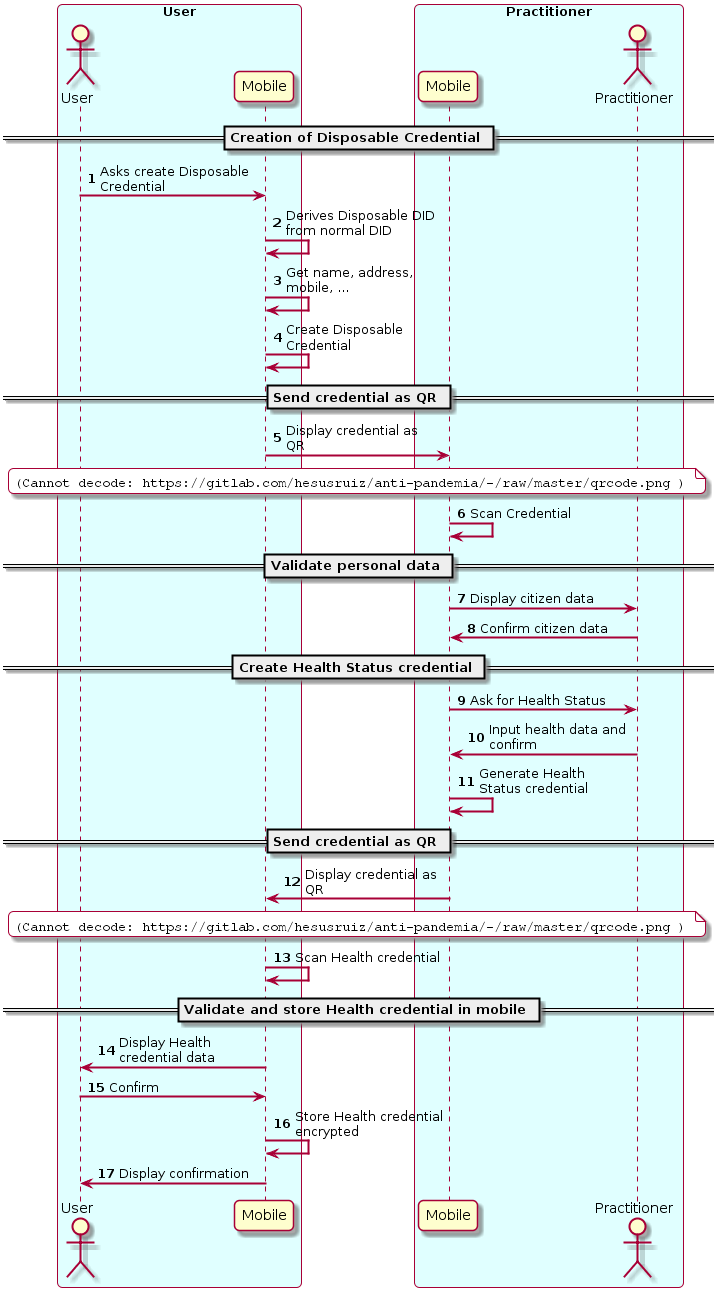
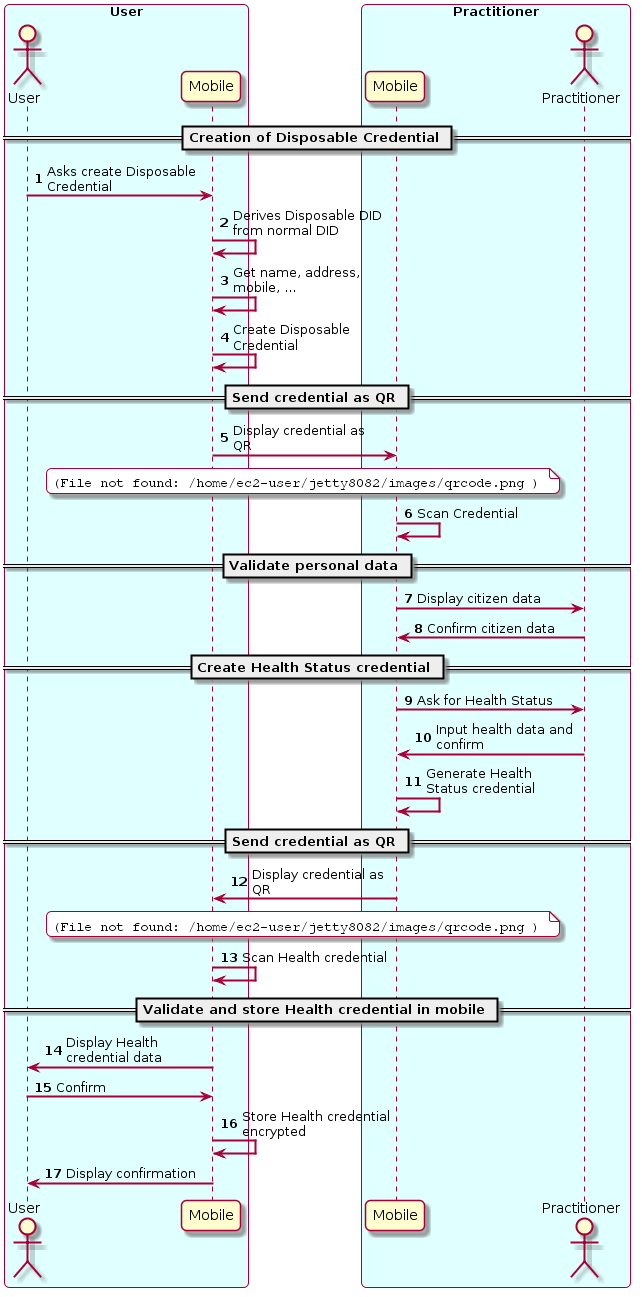
Change theme

diff --git a/docs/index.html b/docs/index.html
@@ -551,6 +551,24 @@
                 
                 
                 <h1 id="immunisation-and-collective-knowledge-in-pandemia-management">Immunisation and collective knowledge in pandemia management<a class="headerlink" href="#immunisation-and-collective-knowledge-in-pandemia-management" title="Permanent link">&para;</a></h1>
+<div class="toc">
+<ul>
+<li><a href="#immunisation-and-collective-knowledge-in-pandemia-management">Immunisation and collective knowledge in pandemia management</a><ul>
+<li><a href="#introduction">Introduction</a></li>
+<li><a href="#functionalities">Functionalities</a></li>
+<li><a href="#main-system-characteristics">Main system characteristics</a></li>
+<li><a href="#high-level-overview">High level overview</a><ul>
+<li><a href="#practitioners-can-issue-credentials-to-citizens">Practitioners can issue credentials to Citizens</a></li>
+<li><a href="#citizens-can-present-their-credentials-to-officials">Citizens can present their credentials to officials</a></li>
+<li><a href="#citizens-can-self-attest-their-health-status-using-questionnaires">Citizens can self-attest their health status using questionnaires</a></li>
+<li><a href="#citizens-can-provide-consent-to-use-personal-data">Citizens can provide consent to use personal data</a></li>
+<li><a href="#color-coding-in-a-safe-and-privacy-preserving-way">Color coding in a safe and privacy-preserving way</a></li>
+</ul>
+</li>
+</ul>
+</li>
+</ul>
+</div>
 <h2 id="introduction">Introduction<a class="headerlink" href="#introduction" title="Permanent link">&para;</a></h2>
 <p>To help in times of virus crisis (eg. corona) and for social recovery after the initial crisis, this application uses <a href="https://en.wikipedia.org/wiki/Verifiable_credentials">Verifiable Credentials</a> (VCs) to associate immunisation &amp; health information to citizens.
 We use VCs to <strong>increase privacy</strong> and data control by the user, compared to the equivalent centralized applications developed in other regions like China or Korea. In addition, VCs improve the <strong>interoperability</strong> and usage of this data <strong>across borders in the European Union</strong> (and with other regions with proper agreements), <strong>without requiring a centralized repository</strong>.</p>

diff --git a/docs_src/index.md b/docs_src/index.md
@@ -1,3 +1,5 @@
+toc:
+
 # Immunisation and collective knowledge in pandemia management
 
 ## Introduction
@@ -5,7 +7,7 @@
 To help in times of virus crisis (eg. corona) and for social recovery after the initial crisis, this application uses [Verifiable Credentials](https://en.wikipedia.org/wiki/Verifiable_credentials) (VCs) to associate immunisation & health information to citizens.
 We use VCs to **increase privacy** and data control by the user, compared to the equivalent centralized applications developed in other regions like China or Korea. In addition, VCs improve the **interoperability** and usage of this data **across borders in the European Union** (and with other regions with proper agreements), **without requiring a centralized repository**.
 
-The application uses [EBSI](https://ec.europa.eu/cefdigital/wiki/display/CEFDIGITAL/EBSI) as a public decentralized registry to check the validity of the public identities of practitioners and other professionals and institutions that may be involved. In addition, the application can be configured to verify public identities against any other publicly accessible blockchain repository with compatible query interface (or even centralized systems, with the condition that they be trusted).
+The application uses [EBSI](https://ec.europa.eu/cefdigital/wiki/display/CEFDIGITAL/EBSI) as a public decentralized registry to check the validity of the public identities of practitioners and other professionals and institutions that may be involved. In addition, the application can be configured to verify public identities against any other publicly accessible blockchain repository (like Alastria Red T) with compatible query interface (or even centralized systems, with the condition that they be trusted).
 
 Most interactions among participants happen **off-chain** with high levels of privacy, scalability and flexibility. However, the citizen can provide **explicit consent** in the form of VCs to enable the application to send some specific information to the health authorities of each country.
 
@@ -15,46 +17,6 @@ In addition, the application can:
 - Use **color coded schemas for social interactions** to provide information to improve protection and prevention of people during an epidemic or pandemic situation. Color coding can be more sophisticated than current schemes, thanks to the use of VCs.
 - Use exactly the same mechanism to deliver to the citizens other useful credentials during the post-crisis recovery of the society, for example **temporary permits** for going to work, visiting family or travelling, both inside a country and across borders.
 
-## Functionalities
-
-The application supports several functionalities:
-
-1. Easy onboarding of citizens.
-
-2. Health practitioners will issue to citizens different types of health status situation reports as special Verifiable Credentials. The credentials issued by practitioners will be based on lab tests, vaccination, diagnostics, etc.
-
-3. Citizens can self-attest their health status using questionnaires, in a similar way that is done now with some apps developed in some countries for coronavirus crisis management. These credentials are of a different nature, being self-issued and not fully verified by an authority, but they have proven to be of immense value in times of crisis. A simple verification with the mobile number, even if not legally binding, can be very useful in these situations.
-
-4. Citizens can provide consent to use personal data embedded in the credentials, including the GPS coordinates in their phones for different purposes, which can range from full tracking to explicit geo-tagging of some VC when the citizen considers it adecuate (for example for self-attestation of compliance with quarantine). Some messages can be automatically collected in a central server (there may be one per country depending on the citizen), and the aggregated information from many citizens can be used and analyzed.
-
-5. The information represented by these Verifiable Credentials can be used in a safe and privacy-preserving way for things like "color coding" citizens for their health condition regarding the infection status and places visited.
- 
-These health condition credentials are **temporary** and should be destroyed when a new (updated) credential provides a more recent view on the situation. The citizen should be in control of the set of credentials that were issued to her, including the possibility to delete them. It is even reasonable to have the credentials automatically destroyed after the crisis has passed. To stress this short-lived characteristic, we call them **Disposable Verifiable Credentials**.
- 
-The health condition credentials are tied to a digital identity of the issuing party. In case of practitioners this should be tied to their professional credentials. All data exchanges are accompanied by a GDPR consent encoded as Verifiable Claim so that legitimate use of the data can be proved.
- 
-Health conditions can change a lot with time, so these health condition credentials will be regularly updated and timestamping will determine which is most recent. For each latest health condition credential, a QR can be generated by the citizen using a smartphone and this code can be read by another smartphone, either a practitioner, an official or other citizen. **No physical contacts or pre-established relationship** among parties are needed. These QRs are destroyed (as they are only digital, this means that they will not resolve any information) when a new health condition credential is created.
- 
-## Main system characteristics
-
-- Integrated with EBSI (European Blockchain Services Infrastructure) and reusing the ESSIF components, where EBSI will have a global public registry of official health institutions (similar to the registry for Universities). The EBSI registry should be accessible externally by anybody in read mode, to verify the public identities of the health institutions. However, the application can be configured to work using any other blockchain network with compatible interfaces. Additionally, the application can reuse many of the components already available for the Diplomas use case in EBSI.
-
-- The practitioners have public identities (as Verifiable Credentials), issued by the corresponding entities (the process may depend on the specific country), and they can be verified by anybody, when chacking the validity of a health status credential of a citizen.
-
-- In an initial phase of the application, it is not strictly necessary that the citizens have an official identity issued by the government (ESSIF). For crisis management it could be enough that they self-issue a DID which is then used in the credential issued by the practitioner when performing the test or vaccination procedure to the citizen.
-
-- Communication is in general P2P (app-2-app), achieving very high levels of privacy. It includes the ability to use a simple QR based system for sending/receiving VCs to enable simple phone-to-phone verification of a credential without previous relatinship among the participants. For example, when a citizen is walking in the street and an official has to verify that the citizen has the corresponding permit. The citizen can just display the QR representing the VC and the official can scan the QR and verify it.
-
-- Credentials are stored in-app except practitioner credentials representing their identities, which are stored in a public registry. Stale/old data is deleted.
-
-- An interactive and patient focused e-consent system will be included in order to ensure the highest consent rate possible, integrated with the health status credentials.
-
-- Citizen data is only read by practitioners, not stored (equivalent of showing a piece of paper, but not copying it).
-
-- The important exception being the case for government data analysis, for crisis management purposes.
-
-> NOTE: This project is heavily inspired by the [healthcrisis](https://github.com/disposableidentities/healthcrisis) initiative, but it has been adapted to leverage ESSIF and in general the existing EBSI infrastructure and components.
-
 ## High level overview
 
 ### Practitioners can issue credentials to Citizens
@@ -63,13 +25,18 @@ Health conditions can change a lot with time, so these health condition credenti
 
 Health practitioners will issue to citizens different types of health status situation reports as special Verifiable Credentials. The credentials issued by practitioners will be based on lab tests, vaccination, diagnostics, etc.
 
-The practitioners have public identities (as Verifiable Credentials), issued by the corresponding entities (the process may depend on the specific country), and they can be verified by anybody, when checking the validity of a health status credential of a citizen.
+The health condition credentials are tied to the digital identity of the issuing party. In case of practitioners this should be tied to their professional credentials, which are public and issued by the corresponding official entities (the process may depend on the specific country). All data exchanges are accompanied by a GDPR consent encoded as Verifiable Claim so that legitimate use of the data can be proved.
 
 The system allows practitioners to issue credentials to citizens directly, just using their mobile phones while on the field, for example.
 
 ### Citizens can present their credentials to officials
 
 ![](images/index/official.png)
+
+Communication is in general P2P (app-2-app), achieving very high levels of privacy. It includes the ability to use a simple QR based system for sending/receiving VCs to enable simple phone-to-phone verification of a credential without previous relationship among the participants. For example, when a citizen is walking in the street and an official has to verify that the citizen has the corresponding permit. The citizen can just display the QR representing the VC and the official can scan the QR and verify it.
+
+This behaves in much the same way as paper credentials but in a much more secure and convenient way.
+Except that health conditions can change a lot with time, so these health condition credentials will be regularly updated and timestamping will determine which is most recent. For each latest health condition credential, a QR can be generated by the citizen using a smartphone and this code can be read by another smartphone, either a practitioner, an official or other citizen. **No physical contacts or pre-established relationship** among parties are needed. These QRs are destroyed (as they are only digital, this means that they will not resolve any information) when a new health condition credential is created.
 
 ### Citizens can self-attest their health status using questionnaires
 
@@ -89,3 +56,25 @@ Citizens can provide consent to use personal data embedded in the credentials, i
 <img src="images/markers.jpg" width="180">
 
 The information represented by these Verifiable Credentials can be used in a safe and privacy-preserving way for things like "color coding" citizens for their health condition regarding the infection status and places visited.
+
+
+## Main system characteristics
+
+- Integrated with EBSI (European Blockchain Services Infrastructure) and reusing the ESSIF components, where EBSI will have a global public registry of official health institutions (similar to the registry for Universities). The EBSI registry should be accessible externally by anybody in read mode, to verify the public identities of the health institutions. However, the application can be configured to work using any other blockchain network with compatible interfaces. Additionally, the application can reuse many of the components already available for the Diplomas use case in EBSI.
+
+
+
+- In an initial phase of the application, it is not strictly necessary that the citizens have an official identity issued by the government (ESSIF). For crisis management it could be enough that they self-issue a DID which is then used in the credential issued by the practitioner when performing the test or vaccination procedure to the citizen.
+
+
+- Credentials are stored in-app except practitioner credentials representing their identities, which are stored in a public registry. Stale/old data is deleted.
+
+- An interactive and patient focused e-consent system will be included in order to ensure the highest consent rate possible, integrated with the health status credentials.
+
+- Citizen data is only read by practitioners, not stored (equivalent of showing a piece of paper, but not copying it).
+
+- The important exception being the case for government data analysis, for crisis management purposes.
+
+!!! note
+    This project is heavily inspired by the [healthcrisis](https://github.com/disposableidentities/healthcrisis) initiative, but it has been adapted to leverage ESSIF and in general the existing EBSI infrastructure and components.
+

diff --git a/docs_src/issuing_credentials.md b/docs_src/issuing_credentials.md
@@ -2,7 +2,8 @@
 
 ## Practitioner issuing Health Credential
 
-In this interaction, the citizen is in physical contact with practitioner and receives a Health Status credential, exchanging QRs as the communication mechanism.
+In this interaction, the citizen is in physical contact with a practitioner and receives a Health Status credential, exchanging QRs as the communication mechanism.
+This mechanism allows the issuance of credentials by a natural person without requiring a established relationship beforehand.
 
 1. The user creates a self-issued credential and sends it to the practitioner
 2. The practitioner checks personal data (name, address, mobile)
